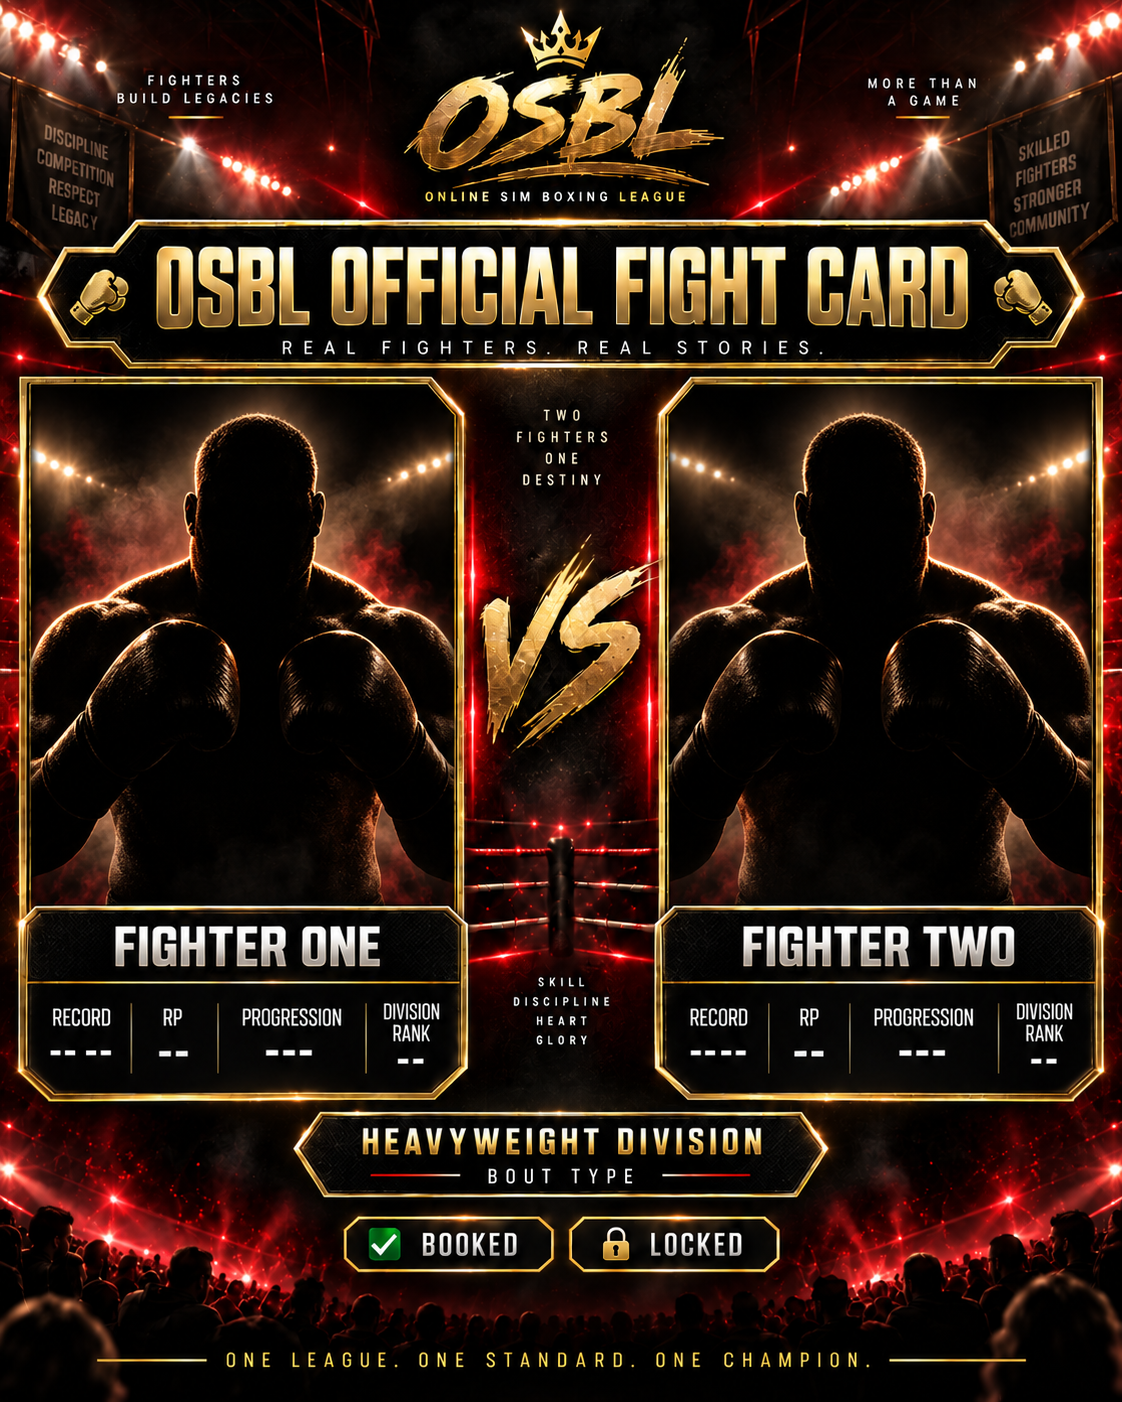
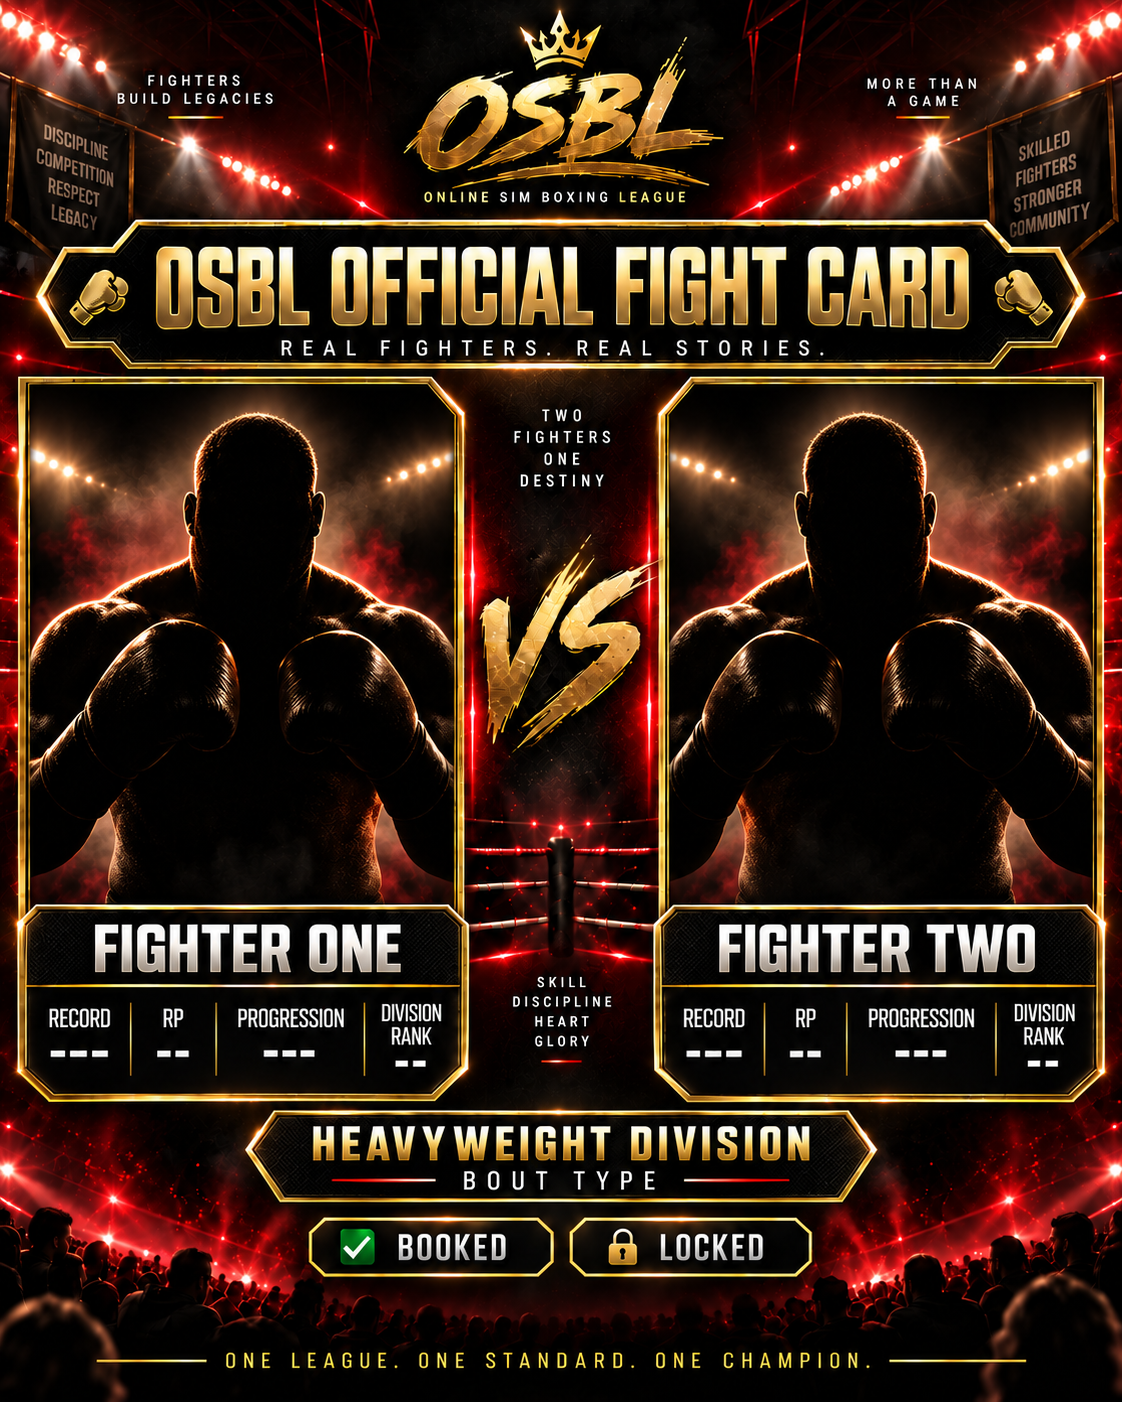
Polish all division fight posters and add fightposterall

diff --git a/bot.py b/bot.py
@@ -443,6 +443,7 @@ async def systemcheck(ctx):
         "bookfight",
         "fightcard",
         "fightposter",
+        "fightposterall",
         "lockfight",
         "cancelbookedfight",
         "setfighterphoto",
@@ -740,6 +741,47 @@ async def fightposter(ctx, booking_id: int = None):
         await ctx.send("❌ Use `!fightposter <Booking ID>`")
         return
     await _send_locked_fight_poster(ctx, booking_id)
+
+
+@bot.command()
+@commands.has_any_role("OSBL COMMISSIONER", "OSBL OFFICIAL")
+async def fightposterall(ctx):
+    """Generate official posters for every currently locked matchup."""
+    async with bot.db.acquire() as conn:
+        bookings = await conn.fetch(
+            """
+            SELECT id
+            FROM fight_bookings
+            WHERE status = 'locked'
+            ORDER BY id ASC
+            """
+        )
+
+    if not bookings:
+        await ctx.send(
+            "📭 **NO LOCKED MATCHUPS**\n"
+            "There are no locked fights available for poster generation."
+        )
+        return
+
+    await ctx.send(
+        f"🎨 **OSBL FIGHT POSTER BATCH**\nGenerating **{len(bookings)}** locked matchup poster(s)..."
+    )
+
+    generated = 0
+    failed = 0
+    for booking in bookings:
+        ok = await _send_locked_fight_poster(ctx, booking["id"])
+        if ok:
+            generated += 1
+        else:
+            failed += 1
+
+    await ctx.send(
+        "✅ **POSTER BATCH COMPLETE**\n"
+        f"Generated: **{generated}**\n"
+        f"Skipped/Failed: **{failed}**"
+    )
 
 
 # =========================================================
